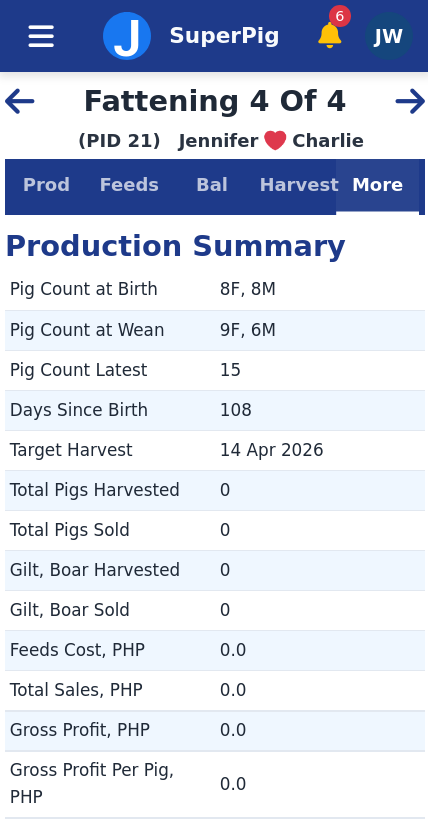
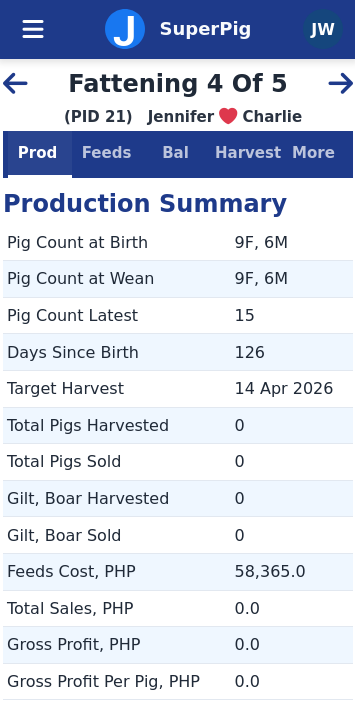
more fixes

diff --git a/src/static/js/pages/production/summary/prod_summary.js b/src/static/js/pages/production/summary/prod_summary.js
@@ -118,6 +118,20 @@ export function ProdSummary(input_settings){
     let dtCurrentDate           = null;
     
     
+    let label_days_since_birth          = 'Days Since Birth';
+    let label_days_since_wean           = 'Days Since Wean';
+    let label_days_birth_to_last_harvest= 'Days Birth to Last Harvest';
+    
+    
+    const helper = navigation.managerTranslations.translationHelper;
+            
+    
+    label_days_since_birth          = helper.getSimpleTranslation('prod_summary.labels.days_since_birth') || label_days_since_birth;
+    label_days_since_wean           = helper.getSimpleTranslation('prod_summary.labels.days_since_wean') || label_days_since_wean;
+    label_days_birth_to_last_harvest= helper.getSimpleTranslation('prod_summary.labels.days_birth_to_last_harvest') || label_days_birth_to_last_harvest;
+        
+    
+    
     const moneyFormatter = new Intl.NumberFormat('en-US', {
         minimumFractionDigits: 1,
         maximumFractionDigits: 1
@@ -277,20 +291,23 @@ export function ProdSummary(input_settings){
             curDataEntry, null, acc_settings_ops);
     
 
-    
+        
+        // Update dynamic num_days label
         let numdays_label = '';
         
         const prod_status_id = curDataEntry.pig_production.prod_status_id; 
         if (prod_status_id == PROD_STATUS.HARVESTED || prod_status_id == PROD_STATUS.CLOSED){
-            elemTdNumDaysLabel.innerHTML  = 'Days Birth to Last Harvest';
+            elemTdNumDaysLabel.innerHTML  = label_days_birth_to_last_harvest;
+            
+            // TODO needs to be computed
         }
         else {
             if (curDataEntry.birth.date_actual){
-                elemTdNumDaysLabel.innerHTML  = 'Days Since Birth';  
+                elemTdNumDaysLabel.innerHTML  = label_days_since_birth;  
                 elemTdNumDays.innerHTML = target_harvest.days_since_birth;  
             }
             else{
-                elemTdNumDaysLabel.innerHTML  = 'Days Since Wean';  
+                elemTdNumDaysLabel.innerHTML  = label_days_since_wean;  
                 elemTdNumDays.innerHTML = target_harvest.days_since_wean;
             }
         }
@@ -699,7 +716,7 @@ export function ProdSummary(input_settings){
         let label_pig_count_birth       = 'Pig Count at Birth';
         let label_pig_count_wean        = 'Pig Count at Wean';
         let label_pig_count_latest      = 'Pig Count Latest';
-        let label_days_since_birth      = 'Days Since Birth';
+        
         let label_target_harvest        = 'Target Harvest';
         let label_pigs_harvested        = 'Total Pigs Harvested';
         let label_pigs_sold             = 'Total Pigs Sold';
@@ -712,13 +729,12 @@ export function ProdSummary(input_settings){
         
         
         const helper = navigation.managerTranslations.translationHelper;
-
             
         
         label_pig_count_birth           = helper.getSimpleTranslation('prod_summary.labels.pig_count_birth') || label_pig_count_birth;
         label_pig_count_wean            = helper.getSimpleTranslation('prod_summary.labels.pig_count_wean') || label_pig_count_wean;
         label_pig_count_latest          = helper.getSimpleTranslation('prod_summary.labels.pig_count_latest') || label_pig_count_latest;
-        label_days_since_birth          = helper.getSimpleTranslation('prod_summary.labels.days_since_birth') || label_days_since_birth;
+        
         label_target_harvest            = helper.getSimpleTranslation('prod_summary.labels.target_harvest') || label_target_harvest;
         label_pigs_harvested            = helper.getSimpleTranslation('prod_summary.labels.pigs_harvested') || label_pigs_harvested;
         label_pigs_sold                 = helper.getSimpleTranslation('prod_summary.labels.pigs_sold') || label_pigs_sold;
@@ -778,8 +794,8 @@ export function ProdSummary(input_settings){
         
         <table class="data-table">
             <colgroup>
-                <col style="width: 50%;">
-                <col style="width: 50%;">
+                <col style="width: 65%;">
+                <col style="width: 35%;">
             </colgroup>
             
             
